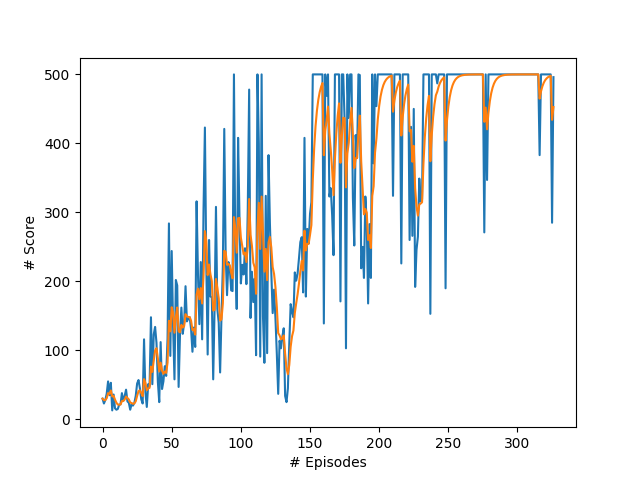
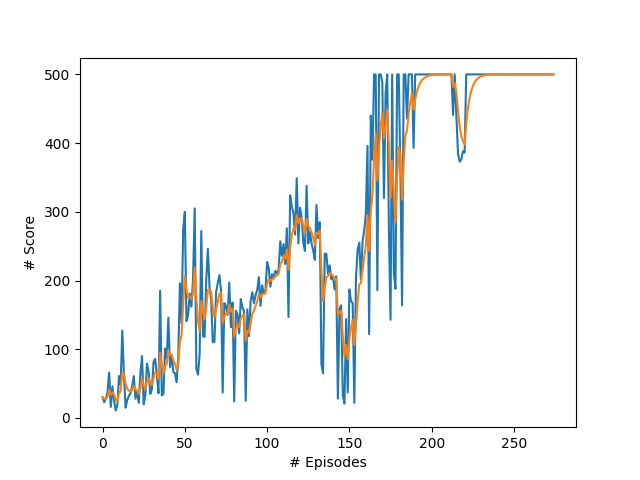
reduced gradient clipping to 0.1. Solves the env in 275 steps!

diff --git a/A2C/CartPole/train.py b/A2C/CartPole/train.py
@@ -22,7 +22,7 @@ num_actions = env.action_space.n
 lr = 5e-3
 gamma = 0.99
 BETA = 1e-2 # for exploration
-CLIP = 1.5 # for gradient clip
+CLIP = 0.1 # for gradient clip
 net = A2C(in_features=input_dim, out_features=hidden_dim, num_actions=num_actions,
           device=device, seed = seed)
 optimizer = Adam(net.parameters(), lr=lr, eps=1e-8)
